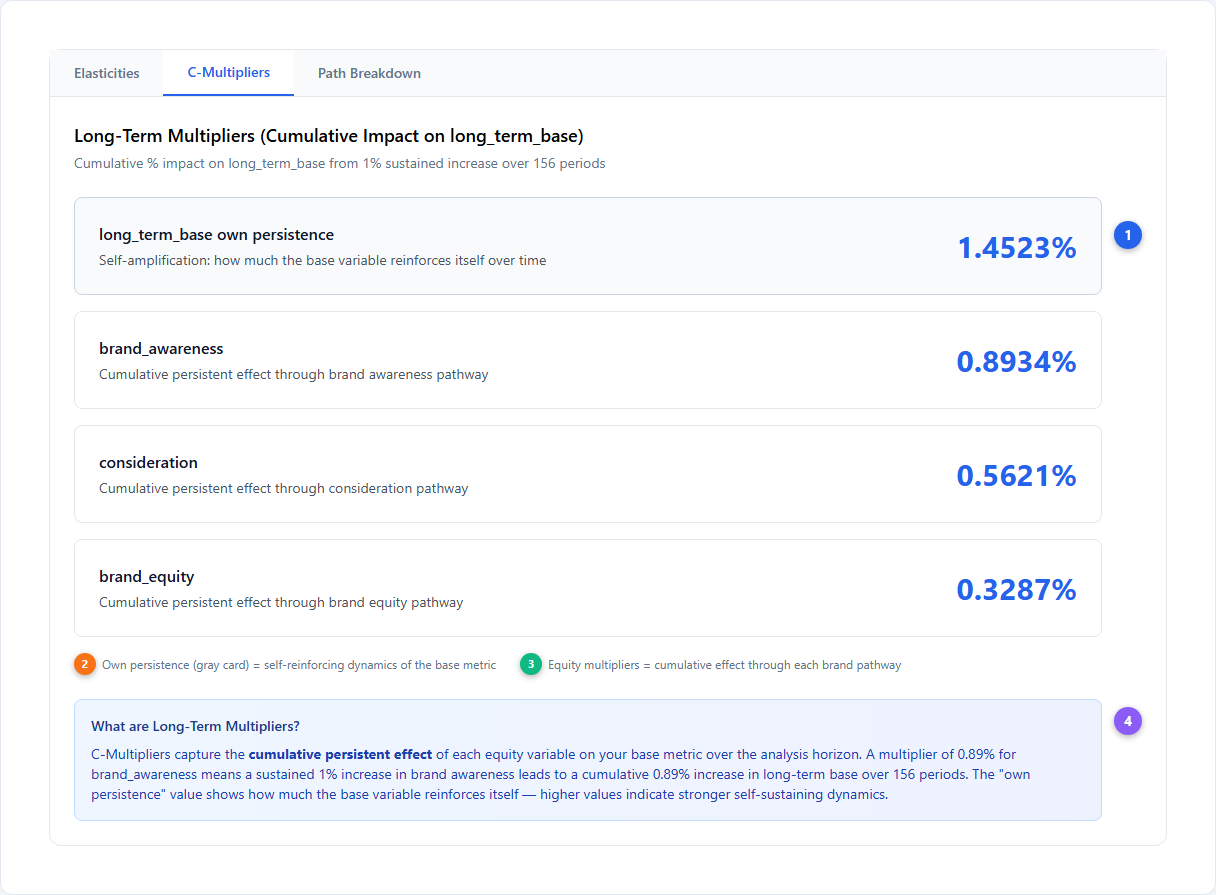
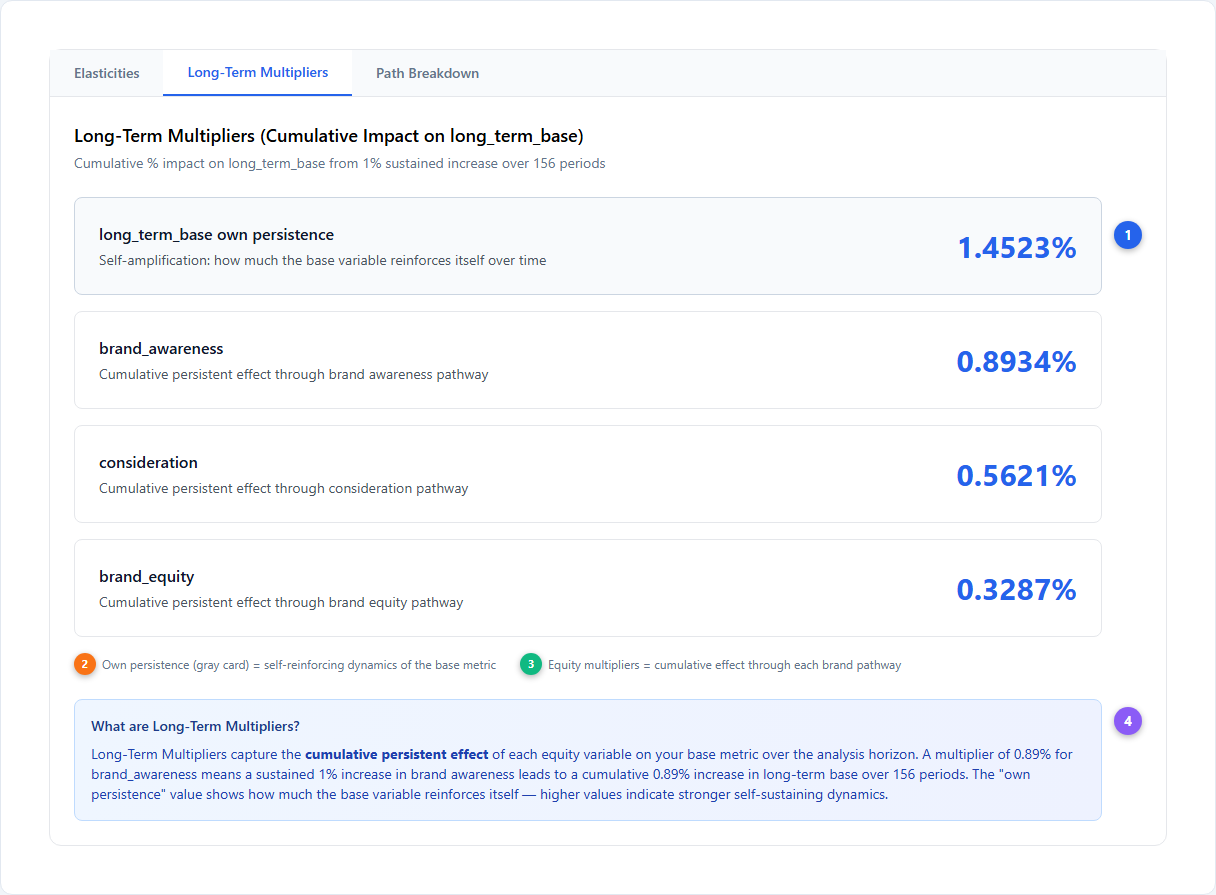
docs: fix 4 codebase audit findings in long-term effects
- Fix tab name: "C-Multipliers" → "Long-Term Multipliers" (matches
  TabsTrigger in LongRunEffects/index.tsx)
- Fix VAR tab: "Actual vs Modeled" → "AvM" (matches constants.tsx)
- Fix IRF grid: "2x2 grid" → "2-column responsive grid" (grid-cols-1
  md:grid-cols-2, iterates all variables)
- Fix Path Breakdown info boxes: both use InfoBox variant="info" (blue),
  not blue and gray
- Re-capture 3 screenshots with corrected "Long-Term Multipliers" tab label

Changed region(s): [[0.0938, 0.8145, 0.875, 0.8749], [0.1562, 0.0603, 0.4062, 0.0905]]

diff --git a/docs/platform-guide/long-term-effects.md b/docs/platform-guide/long-term-effects.md
@@ -14,7 +14,7 @@ When you build a VAR model in Simba, the results page includes seven tabs. The l
 |---|---------|-------------|
 | 1 | **Long-Run Effects tab** | Quantifies persistent marketing impact through brand equity pathways --- the primary output for budget decisions |
 | 2 | **Variance Decomposition tab** | Shows what drives uncertainty in each variable --- which channels matter most at different time horizons |
-| 3 | **Standard VAR tabs** | Coefficients, Model Stats, Actual vs Modeled, and Residuals --- standard model diagnostics |
+| 3 | **Standard VAR tabs** | Coefficients, Model Stats, AvM, and Residuals --- standard model diagnostics |
 
 These three tabs work together: IRF shows *how* variables respond to shocks, FEVD shows *what drives uncertainty*, and Long-Run Effects quantifies the *persistent cumulative impact* on your base metric.
 
@@ -57,7 +57,7 @@ Impulse Response Functions (IRFs) show how each variable responds over time when
 | 2 | **Shock Variable selector** | Choose which variable to "shock" --- typically a media spend channel --- to see how all other variables respond |
 | 3 | **Cumulative toggle** | Off = period-by-period response; On = total accumulated effect over time. Cumulative mode shows the building long-run impact |
 | 4 | **Brand Impact Analysis** | Auto-generated insight summarizing the key cross-variable effects of the selected shock |
-| 5 | **Response chart grid** | 2x2 grid of Plotly charts. Green (#28a745) = positive response, Red (#dc3545) = negative response. Fill shows direction clearly |
+| 5 | **Response chart grid** | 2-column responsive grid of Plotly charts (one chart per variable). Green (#28a745) = positive response, Red (#dc3545) = negative response. Fill shows direction clearly |
 | 6 | **Own Effect badge** | Marks the chart showing how the shocked variable responds to itself --- typically a spike with rapid decay for media spend |
 
 ### Reading IRF Charts
@@ -116,7 +116,7 @@ The primary results view showing each channel's total persistent effect on your 
 | # | Element | Description |
 |---|---------|-------------|
 | 1 | **Analysis Configuration summary** | Blue gradient card confirming: base variable, equity variables, horizon, confidence level, and whether transformations were applied |
-| 2 | **Results sub-tabs** | Five tabs: Elasticities (always), C-Multipliers (always), Path Breakdown (always), ROI Analysis (conditional), NPV Scenarios (conditional) |
+| 2 | **Results sub-tabs** | Five tabs: Elasticities (always), Long-Term Multipliers (always), Path Breakdown (always), ROI Analysis (conditional), NPV Scenarios (conditional) |
 | 3 | **Elasticity value** | Total % change in your base variable from a sustained 1% increase in each channel. Higher = stronger long-run effect |
 | 4 | **Via columns** | Show how much of the total effect flows through each equity pathway (brand_awareness, consideration, brand_equity). Percentages reveal brand-mediated vs performance impact |
 | 5 | **Direct column** | Effect that bypasses brand metrics entirely --- captures immediate/performance-oriented response |
@@ -129,20 +129,20 @@ The primary results view showing each channel's total persistent effect on your 
 - **Elasticity magnitude**: 0.38 means a sustained 1% increase in that channel drives a cumulative 0.38% increase in your base variable over the full horizon
 - **Comparing channels**: Sort by elasticity to rank channels by total long-run impact. A channel with a lower short-term ROAS but higher long-run elasticity may be undervalued
 
-### C-Multipliers Tab
+### Long-Term Multipliers Tab
 
 Shows the cumulative persistent effect of each equity variable on your base metric.
 
-![C-Multipliers cards](./images/lte-cmultipliers.png)
+![Long-Term Multipliers cards](./images/lte-cmultipliers.png)
 
 | # | Element | Description |
 |---|---------|-------------|
 | 1 | **Multiplier cards** | One card per equity variable showing its cumulative persistent effect on the base variable |
 | 2 | **Own persistence** (gray card) | Self-amplification: how much the base variable reinforces itself over time. Higher values indicate stronger self-sustaining dynamics |
 | 3 | **Equity multiplier values** | A value of 0.89% means a sustained 1% increase in that equity variable leads to a cumulative 0.89% increase in the base over the analysis horizon |
-| 4 | **What are Long-Term Multipliers?** | Explanation of C-Multipliers and how to interpret the cumulative persistence values |
+| 4 | **What are Long-Term Multipliers?** | Explanation of long-term multipliers and how to interpret the cumulative persistence values |
 
-**How to interpret C-Multipliers:**
+**How to interpret Long-Term Multipliers:**
 
 - **Own persistence > 1**: The base variable amplifies its own shocks --- positive momentum effects
 - **High equity multipliers**: These brand metrics are strong mediators of long-term value. Invest in channels that drive these metrics (revealed by the Path Breakdown tab)
@@ -159,7 +159,7 @@ Shows *how* each channel creates long-term value --- through which equity pathwa
 | 1 | **Channel cards** | One card per media channel showing total elasticity and the breakdown across pathways |
 | 2 | **Direct effect bar** (gray) | The portion of the channel's effect that bypasses brand metrics. Performance channels show dominant gray bars |
 | 3 | **Performance channel pattern** | Google Search shows 75% direct effect --- typical of lower-funnel channels where most value is immediate |
-| 4 | **Interpretation boxes** | Blue = brand-mediated effects explanation; Gray = direct effects explanation |
+| 4 | **Interpretation boxes** | Two info boxes explaining brand-mediated effects and direct effects (both use InfoBox variant="info") |
 
 **How to interpret Path Breakdown:**
 
